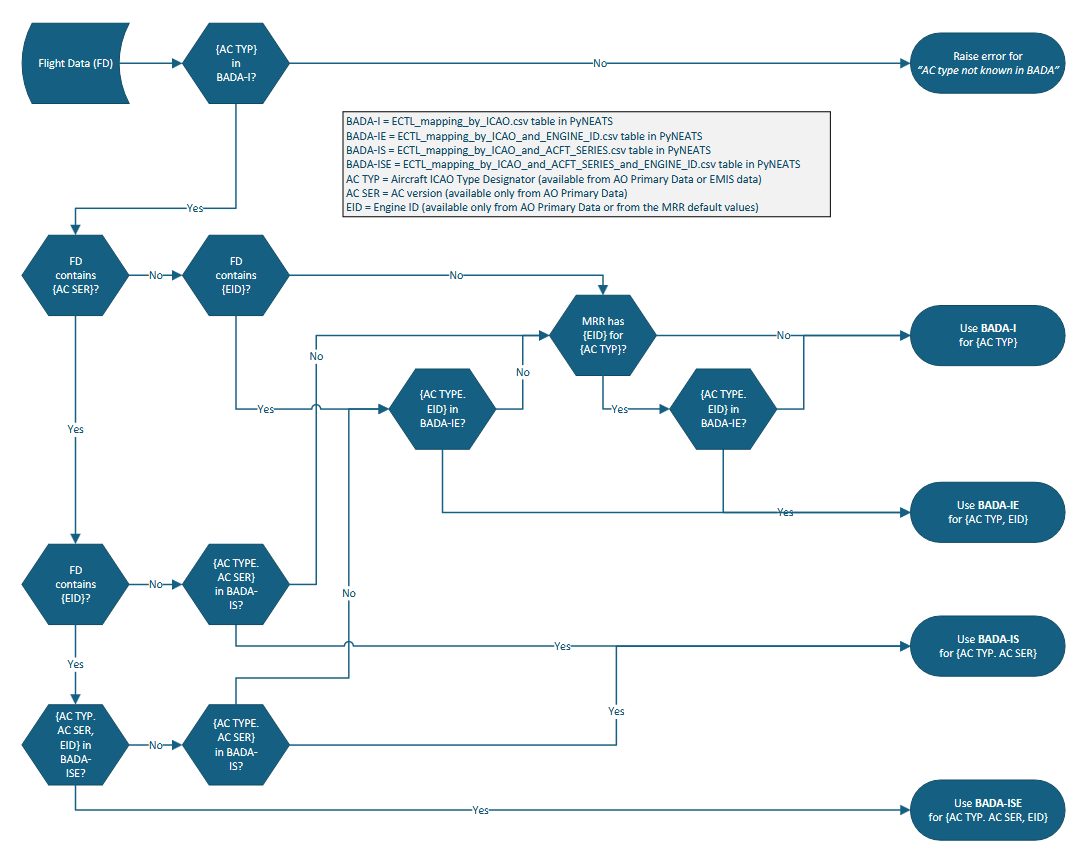
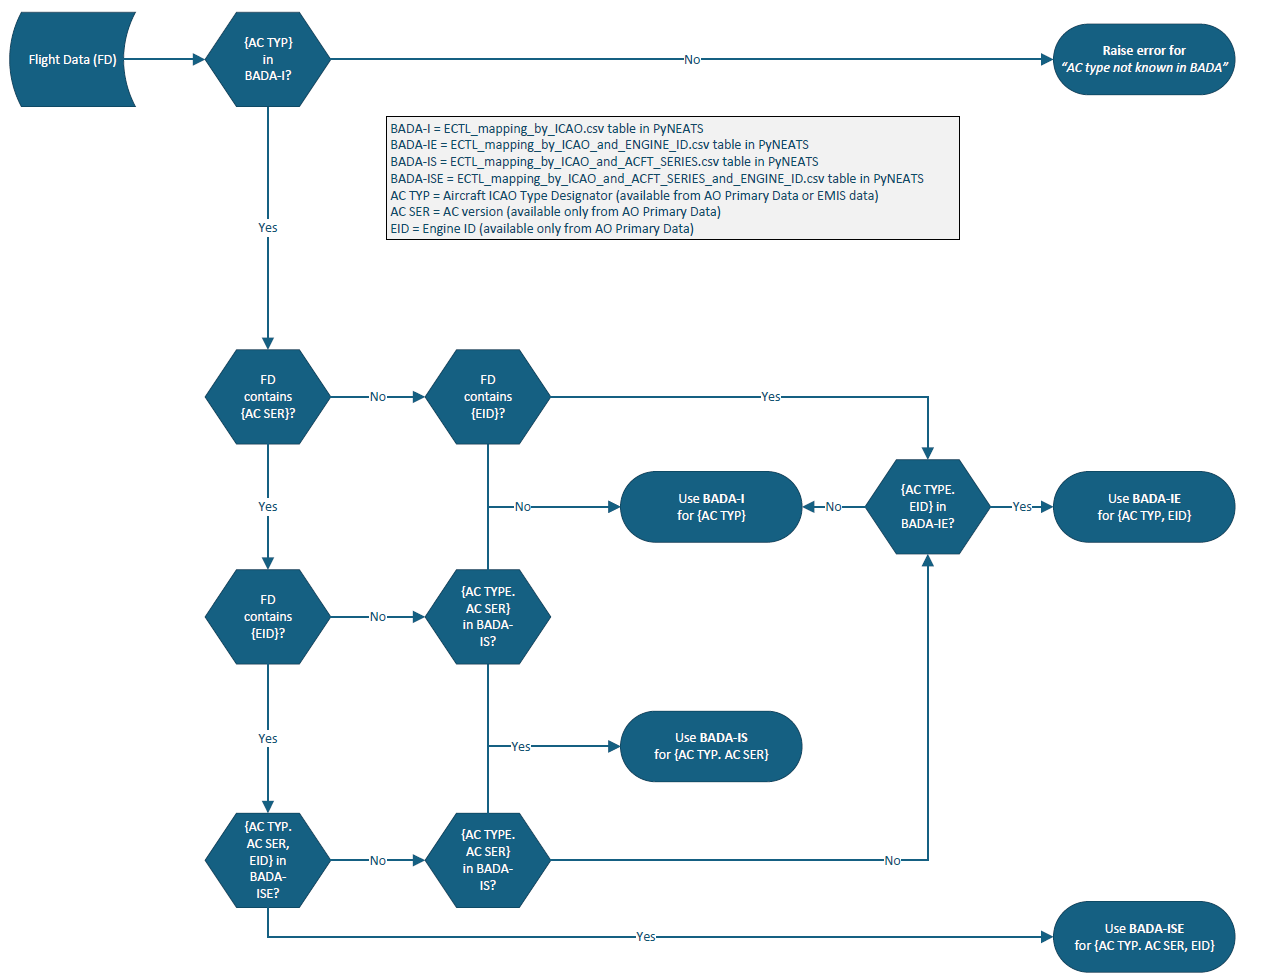
docs(performance): replace the ICAO-BADA correspondence figure
The old Figure 2 showed the MRR conservative engine as a (type, engine)
key of the BADA mapping, the chain before v0.7.5 (933a9be). The new
figure matches BadaMapper.resolve: only the AO version and engine UID
select the row; the MRR engine only gives the emissions engine. Text
under the figure states this.

diff --git a/docs/explanation/mrv-specification.md b/docs/explanation/mrv-specification.md
@@ -233,6 +233,8 @@ See [Input Prioritization](input-prioritization.md) for the full decision flowch
 
 *Figure 2 — ICAO-BADA Correspondence*
 
+The figure selects the row of the mapping tables, and thus the BADA model: the BADA 4 type of the row, or its BADA 3 type when the row has none (see [BADA Type Mapping](input-prioritization.md#bada-type-mapping) for the retries). Only the aircraft version and the engine UID given by the AO are keys; the MRR conservative engine is not used to select the row. It is only the engine UID given to the emissions step when the AO declares none. A version or an engine UID that is not in a table is not an error: the look-up goes on with the next table. When several rows match, the first one is used.
+
 ### 3.5 Emissions Model
 
 PyNeats uses the emission model within **PyContrails** that implements the **BFFM2** and **T4/T2** models.

diff --git a/CHANGELOG.md b/CHANGELOG.md
@@ -26,6 +26,7 @@ and this project adheres to [Semantic Versioning](https://semver.org/spec/v2.0.0
 
 ### Documentation
 
+- **performance**: Figure 2 of the MRV specification (ICAO-BADA correspondence) replaced: the MRR conservative engine no longer appears as a key of the BADA mapping: the old figure showed the pre-v0.7.5 chain, where it selected a (type, engine) row; since v0.7.5 it only gives the emissions engine. Text added under the figure
 - **open_airclim**: Method D settings table lists `[temperature]`; note that the CH4 RF of a flight first decreases and then returns towards 0 with openairclim 0.20.0, the expected behaviour (DLR)
 
 ## [1.0.1] - 2026-05-26
